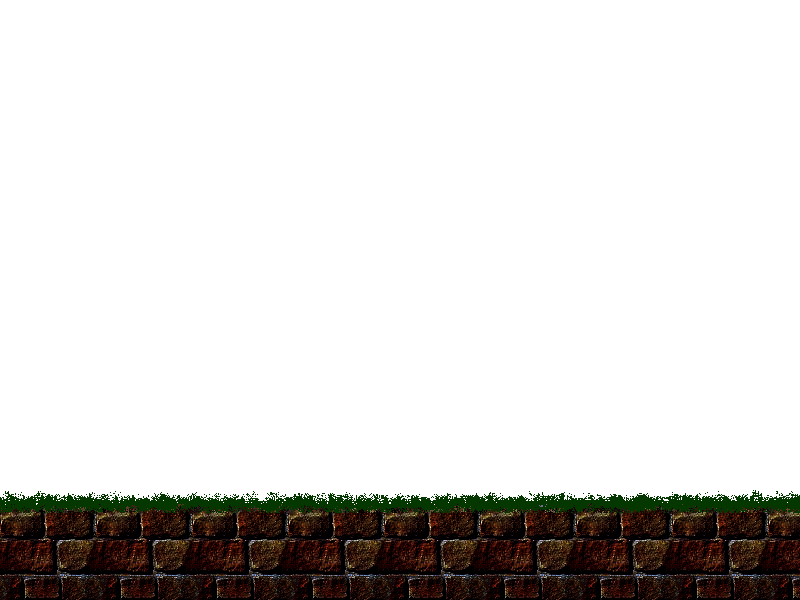
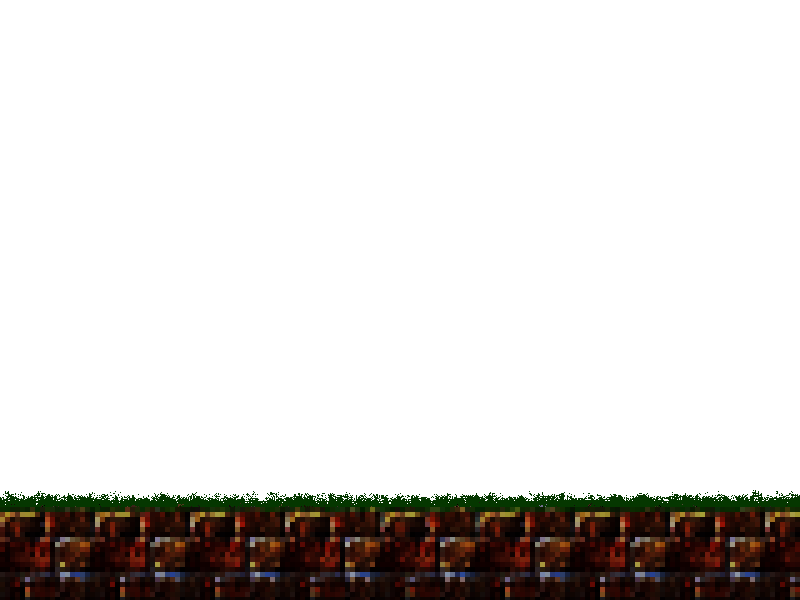
Fixed bugs and modified artwork

Changed region(s): [[0.0, 0.84, 1.0, 1.0]]

diff --git a/interplanetary_invaders/scripts/game.py b/interplanetary_invaders/scripts/game.py
@@ -653,7 +653,13 @@ class Game:
             if self.i10l:
                 image = "itemHolder10"
                 minus = 45
-            self.display.blit(self.images[image], (550 - minus, 100))
+
+            items_rect = self.images["items"].get_rect()
+            itemholder_rect = self.display.blit(self.images[image], (550 - minus, 100))
+            items_rect.midtop = itemholder_rect.move(0, 3).midbottom
+
+            self.display.blit(self.images["items"], items_rect)
+
             for e, item in enumerate(self.player.items):
                 pos = (552 - minus + (e * 19), 102)
                 self.display.blit(self.images[item.image], pos)

diff --git a/interplanetary_invaders/scripts/stars.py b/interplanetary_invaders/scripts/stars.py
@@ -44,10 +44,10 @@ def main():
     for star in stars:
         star.center += star.velocity + ((star.velocity / 5) * ((star.dist_from_center() ** 2 + 1) / 500))
         size = star.size * star.dist_from_center() / 500
-        rect = pygame.Rect(0, 0, size * scale, size * scale)
+        rect = pygame.Rect(0, 0, 10, 10)
         rect.center = star.center
         if not surf.get_rect().colliderect(rect):
             stars.remove(star)
             continue
-        pygame.draw.circle(surf, star.color, star.get_center(), round(size * scale))
+        r = pygame.draw.circle(surf, star.color, star.get_center(), round(size * scale))
     return surf

diff --git a/setup.py b/setup.py
@@ -34,7 +34,7 @@ setup(
     long_description_content_type="text/markdown",
     zip_safe=False,
     url="https://github.com/nachomonkey/interplanetary-invaders",
-    install_requires=["setuptools", "pygame==1.9.6", "humanize>=0.5.0"],
+    install_requires=["setuptools", "pygame>=1.9.6", "humanize>=0.5.0"],
     packages=["interplanetary_invaders", "interplanetary_invaders.scripts"],
     package_data={"interplanetary_invaders":["*.png", fix_path("fonts/*"), fix_path("music/*"), fix_path("audio/*"), fix_path("audio/music/*"), fix_path("data/*")] + img_data},
     entry_points={

diff --git a/interplanetary_invaders/main.py b/interplanetary_invaders/main.py
@@ -102,6 +102,8 @@ class Main:
                     point = None
                     continue
             play = game.Game(self.display, self.Display, self.images, mission, self.profile, self.profile_selected, retry)
+
+            retry = False
             score, mode, acc, maxcombo, im_back = play.main()
             if play.toMenu:
                 self.menu()

diff --git a/interplanetary_invaders/__init__.py b/interplanetary_invaders/__init__.py
@@ -2,5 +2,5 @@
 __myname__ = "Interplanetary Invaders"
 __title__ = "Interplanetary Invaders"
 __author__ = "NachoMonkey"
-__version__ = "0.6.4"
+__version__ = "0.6.5"
 __minimum_version__ = (3, 7)
